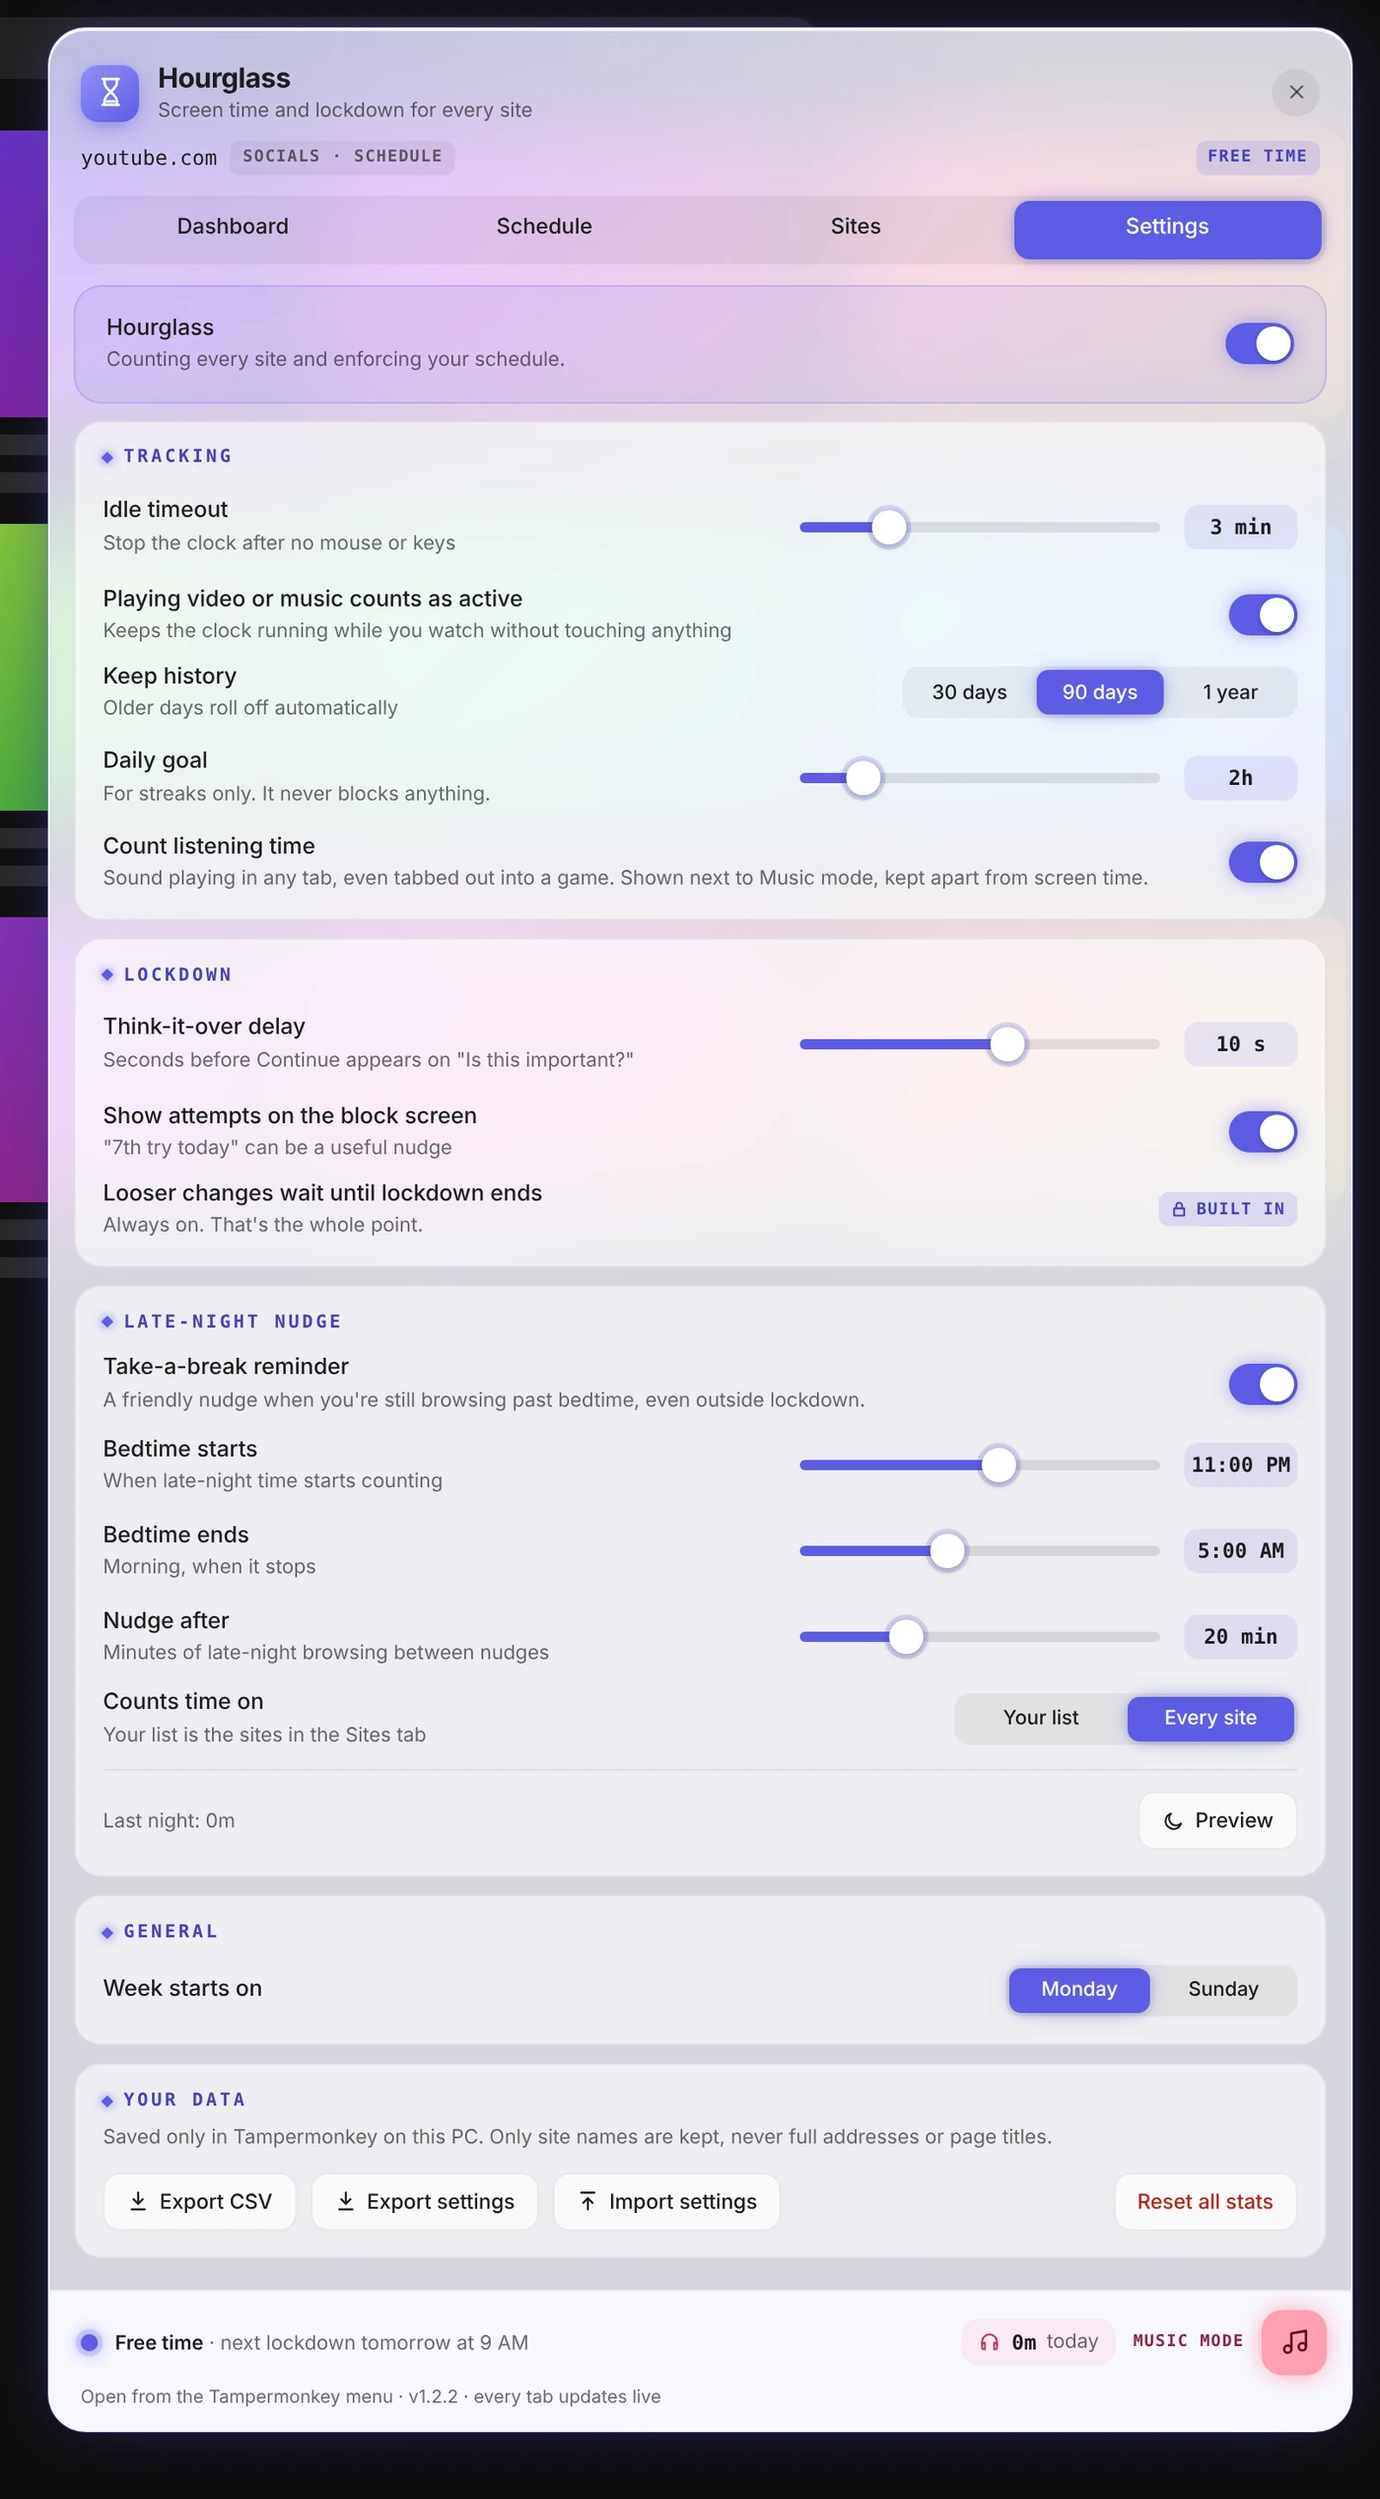
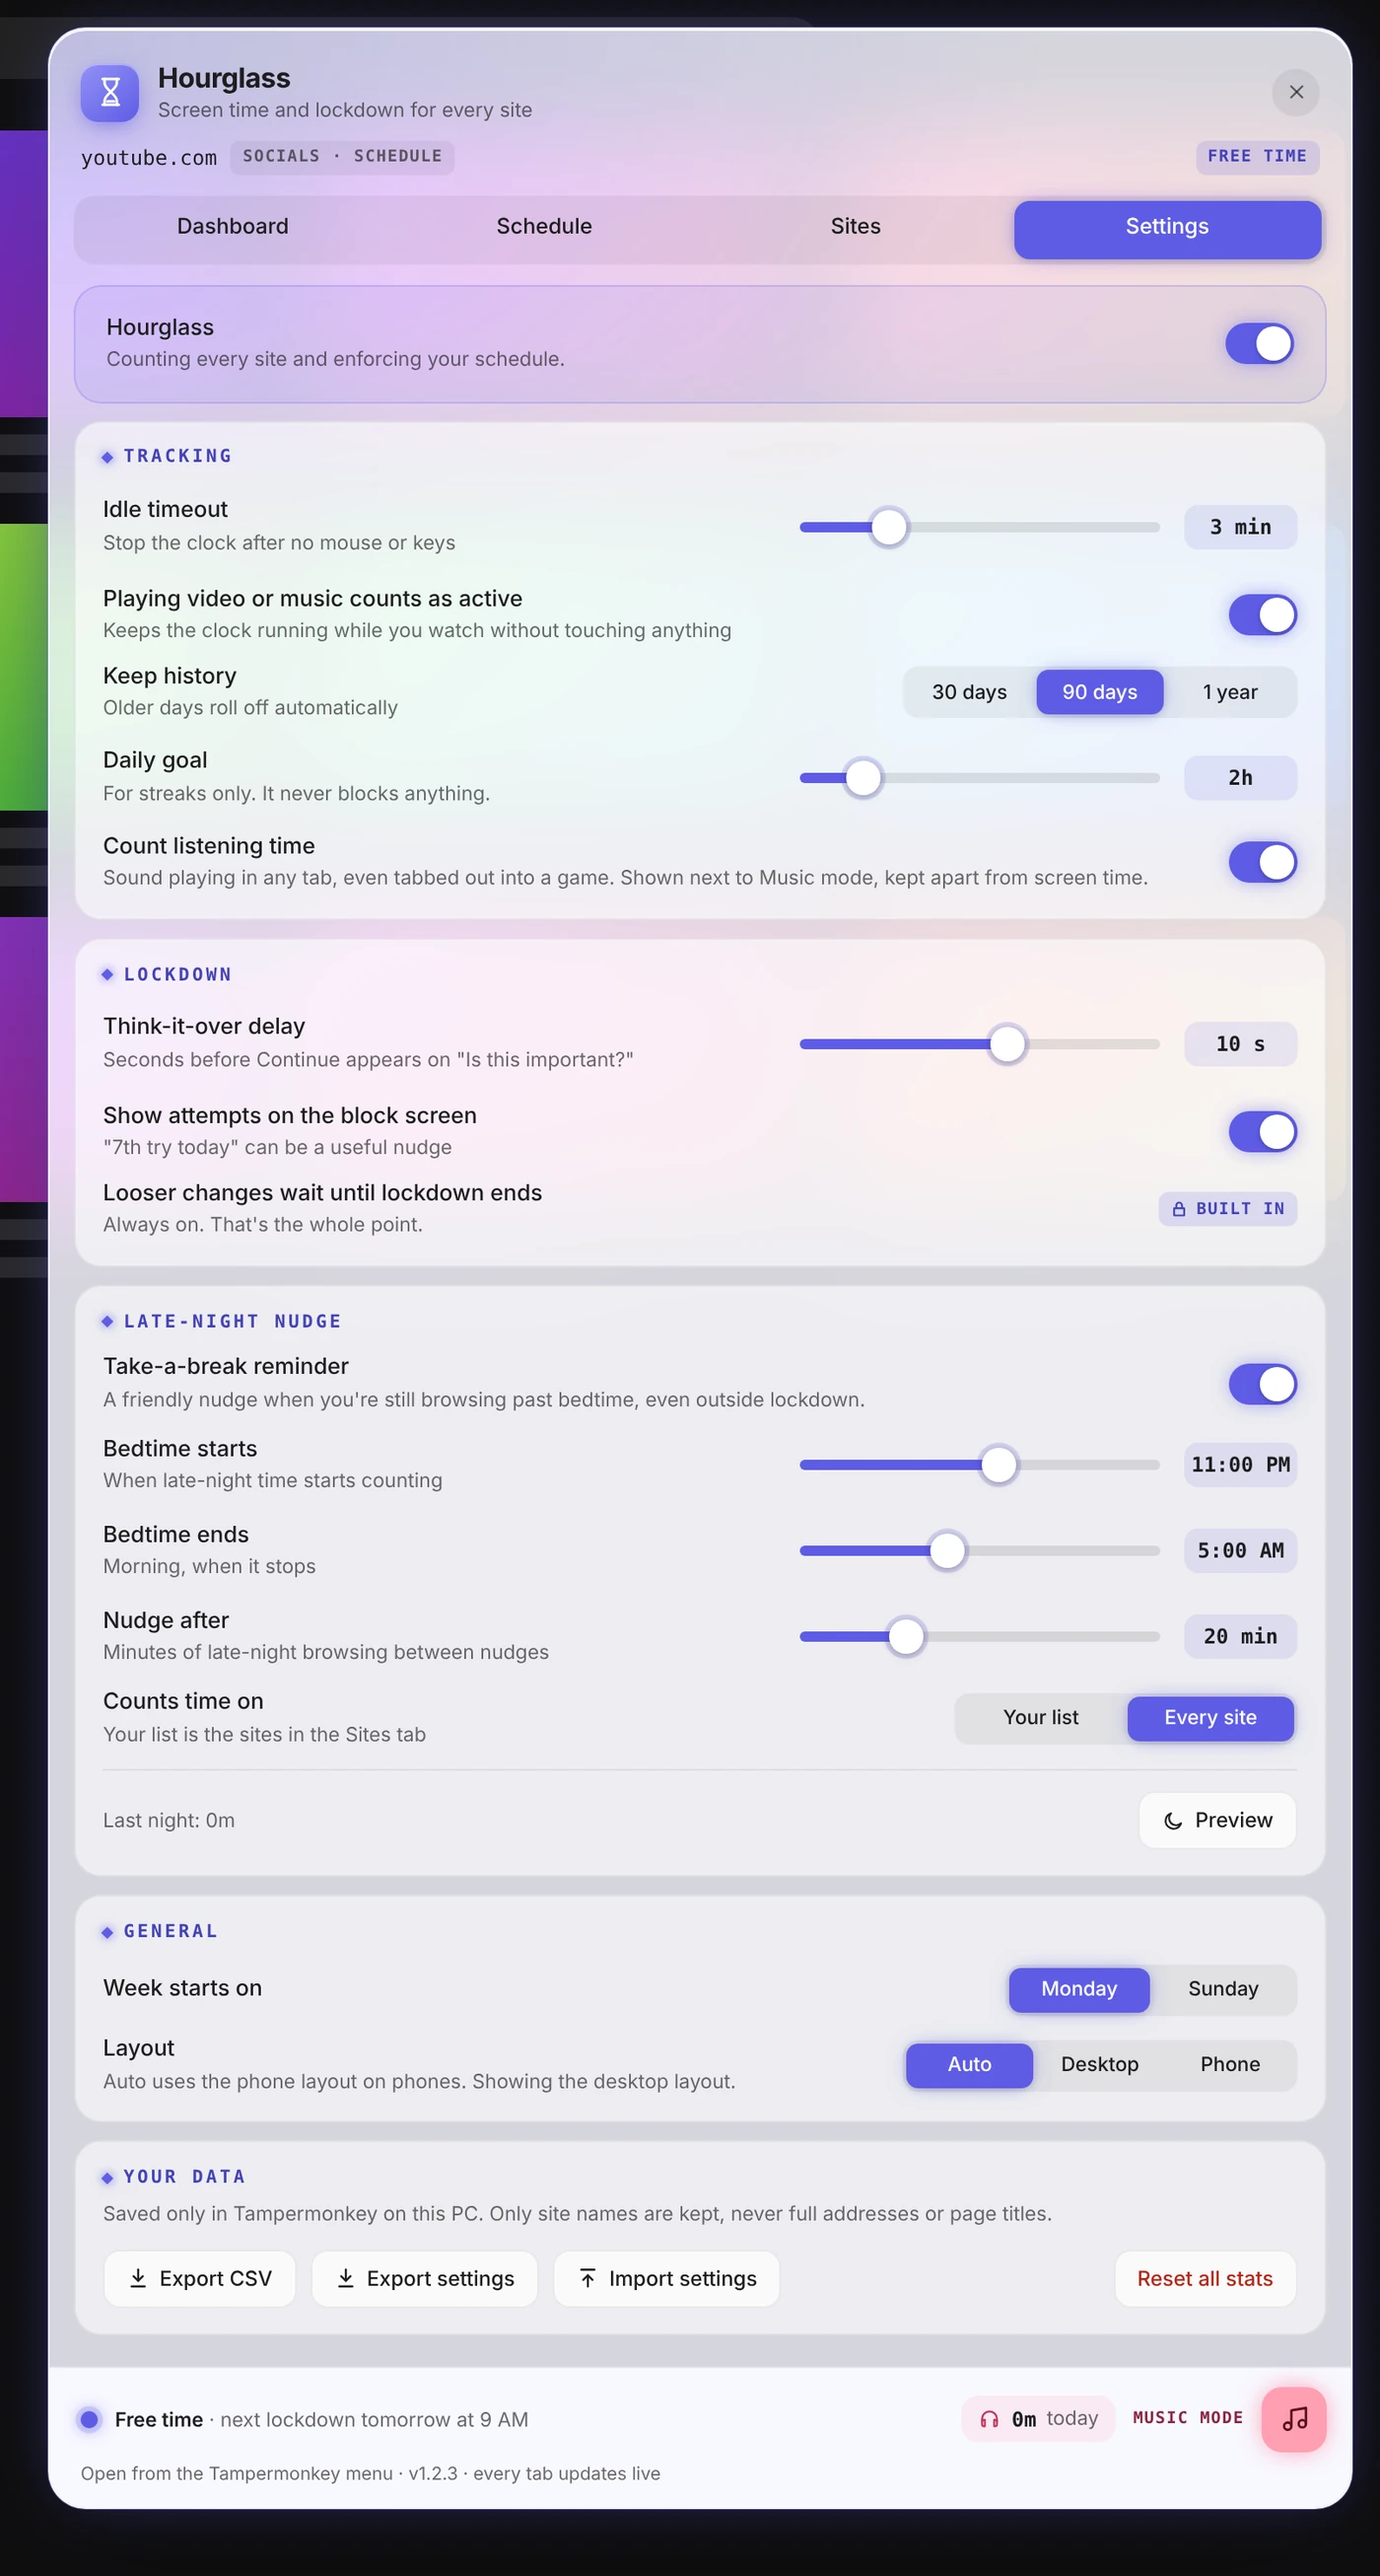
Hourglass 1.2.3: keep the desktop panel on touchscreen laptops
Edge on some touchscreen laptops reports the touchpad as a coarse
pointer, so the touch-only check picked the phone sheet on desktop.
The touch fallback (for phones in Desktop site mode) now also needs a
phone-sized screen. Settings > General gets a Layout switch
(Auto / Desktop / Phone) to override detection if it ever guesses wrong.

Panels recaptured and pages rebuilt.

Claude-Session: https://claude.ai/code/session_01P7t51rfR5tvBWCcnad5pzv

diff --git a/desktop/hourglass/hourglass.user.js b/desktop/hourglass/hourglass.user.js
@@ -1,7 +1,7 @@
 // ==UserScript==
 // @name         Hourglass
 // @namespace    jigglypug
-// @version      1.2.2
+// @version      1.2.3
 // @description  Screen time for every site, plus a lockdown schedule that blocks distractions. Frosted dashboard with charts, schedule sliders, passes, Music mode, listening time and a late-night nudge. Works on phones too.
 // @match        *://*/*
 // @grant        GM_getValue
@@ -25,7 +25,7 @@
 
     /* ───────────────────────── constants ───────────────────────── */
 
-    const VERSION = (typeof GM_info !== 'undefined' && GM_info.script && GM_info.script.version) || '1.2.2';
+    const VERSION = (typeof GM_info !== 'undefined' && GM_info.script && GM_info.script.version) || '1.2.3';
     const CAT = {
         social: { n: 'Socials',  c: '#5E5CE6' },
         shop:   { n: 'Shopping', c: '#32ADE6' },
@@ -132,13 +132,19 @@
         return 'custom';
     }
     const HOST = normHost(location.hostname);
-    // phones and tablets: the mobile flag when the browser reports it, a mobile user agent, or a touch-only screen
-    // (that last one still catches Edge/Chrome in "Desktop site" mode, which hides the mobile user agent)
-    const MOBILE = (() => {
+    // Layout: Settings › General can force Desktop or Phone; Auto decides below.
+    const LAYOUT = (() => { try { const v = GM_getValue('layout'); return v === 'desktop' || v === 'phone' ? v : 'auto'; } catch { return 'auto'; } })();
+    // Phones: the browser's own mobile flag, a mobile user agent, or an iPad (iPadOS reports itself as a Mac).
+    // "Desktop site" mode on a phone hides both, so a touch screen also counts, but only when the screen is phone-sized:
+    // touchscreen laptops often report their touchpad as a coarse pointer, and they should keep the desktop panel.
+    const MOBILE = LAYOUT === 'phone' ? true : LAYOUT === 'desktop' ? false : (() => {
         try {
+            const ua = navigator.userAgent;
             if (navigator.userAgentData?.mobile === true) return true;
-            if (/Android|iPhone|iPod|iPad|Mobile|Silk|Kindle|Opera Mini/i.test(navigator.userAgent)) return true;
-            return navigator.maxTouchPoints > 0 && matchMedia('(pointer: coarse)').matches && !matchMedia('(any-pointer: fine)').matches;
+            if (/Android|iPhone|iPod|iPad|Mobile|Silk|Kindle|Opera Mini/i.test(ua)) return true;
+            if (/Macintosh/.test(ua) && navigator.maxTouchPoints > 1) return true;
+            const phoneSized = Math.min(screen.width, screen.height) <= 600;
+            return phoneSized && navigator.maxTouchPoints > 0 && matchMedia('(pointer: coarse)').matches;
         } catch { return false; }
     })();
 
@@ -1680,7 +1686,15 @@ h1 span{color:var(--ink)}
                     h('div', { class: 'd', text: (inBedtime() ? 'Tonight so far: ' : 'Last night: ') + fmtDur(nightTotal(inBedtime() ? nightId() : lastNightId(), nudge.scope())) }),
                     h('button', { class: 'btn', onclick: () => nudge.show(nudge.tonight(), 1) }, icon(ICONS.moon, 13), 'Preview')));
             const general = h('div', { class: 'tile full' }, this.label('General'),
-                h('div', { class: 'row' }, h('div', { class: 't', text: 'Week starts on' }), this.seg([['mon', 'Monday'], ['sun', 'Sunday']], c.weekStart, v => upd('weekStart', v), true, { style: 'width:170px' })));
+                h('div', { class: 'row' }, h('div', { class: 't', text: 'Week starts on' }), this.seg([['mon', 'Monday'], ['sun', 'Sunday']], c.weekStart, v => upd('weekStart', v), true, { style: 'width:170px' })),
+                (() => {
+                    const want = get('layout', 'auto'), pending = want !== LAYOUT;
+                    return h('div', { class: 'row' },
+                        h('div', null, h('div', { class: 't', text: 'Layout' }),
+                            h('div', { class: 'd' }, pending ? ['Reload the page to switch. ', h('button', { class: 'link', text: 'Reload now', onclick: () => location.reload() })]
+                                : 'Auto uses the phone layout on phones. Showing the ' + (MOBILE ? 'phone' : 'desktop') + ' layout.')),
+                        this.seg([['auto', 'Auto'], ['desktop', 'Desktop'], ['phone', 'Phone']], want, v => { set('layout', v); this.render(); }, true, { style: 'width:230px' }));
+                })());
             const armed = Date.now() - this.resetArm < 4000;
             const data = h('div', { class: 'tile full', style: 'margin-bottom:14px' }, this.label('Your data'),
                 h('div', { class: 'd', style: 'margin:-4px 0 12px', text: 'Saved only in Tampermonkey on this PC. Only site names are kept, never full addresses or page titles.' }),

diff --git a/docs/desktop/hourglass/index.html b/docs/desktop/hourglass/index.html
@@ -11,7 +11,7 @@
 <header class="phero"><div>
 <div class="label">Desktop and phone userscript</div>
 <h1>Hourglass</h1><p class="tag">Screen time and lockdown for every site.</p><p class="intro">Hourglass tracks how long you spend on every site and blocks the distracting ones on a schedule. During lockdown the settings lock too, so you cannot talk yourself out of it in the moment.</p>
-<div class="chips"><span class="chip">Every site; phone and PC</span><span class="chip">v1.2.2</span></div>
+<div class="chips"><span class="chip">Every site; phone and PC</span><span class="chip">v1.2.3</span></div>
 <div class="acts"><a class="btn pri big" href="https://raw.githubusercontent.com/JigglyPug/glassware/main/desktop/hourglass/hourglass.user.js">Install Hourglass</a><a class="btn sec big" href="https://github.com/JigglyPug/glassware/blob/main/desktop/hourglass/hourglass.user.js">View source</a></div>
 </div><figure class="glass"><img src="../../img/hourglass/main.webp" alt="Hourglass panel"></figure></header>
 <section><div class="label">Getting started</div><div class="note glass">A fresh install starts in setup mode: Hourglass counts your screen time but blocks nothing and locks no settings. Check your sites and schedule, then tap <b>Start lockdown</b> on the welcome card. If you start during scheduled hours, you can begin right away or wait until the current block ends.</div></section>

diff --git a/docs/index.html b/docs/index.html
@@ -18,7 +18,7 @@
 <div class="acts"><a class="btn pri" href="https://raw.githubusercontent.com/JigglyPug/glassware/main/desktop/prism/prism.user.js">Install</a><a class="btn sec" href="desktop/prism/">Details</a></div></div></article><article class="card glass" style="--acc:#5b5bd6">
 <a class="shot" href="desktop/hourglass/"><img src="img/hourglass/card.webp" alt="Hourglass settings panel" loading="lazy"></a>
 <div class="body"><h3><a href="desktop/hourglass/">Hourglass</a></h3><p>Screen time and lockdown for every site.</p>
-<div class="meta"><span class="chip">Every site; phone and PC</span><span class="chip">v1.2.2</span></div>
+<div class="meta"><span class="chip">Every site; phone and PC</span><span class="chip">v1.2.3</span></div>
 <div class="acts"><a class="btn pri" href="https://raw.githubusercontent.com/JigglyPug/glassware/main/desktop/hourglass/hourglass.user.js">Install</a><a class="btn sec" href="desktop/hourglass/">Details</a></div></div></article><article class="card glass" style="--acc:#3b6fd6">
 <a class="shot" href="desktop/looking-glass/"><img src="img/looking-glass/card.webp" alt="Looking-Glass settings panel" loading="lazy"></a>
 <div class="body"><h3><a href="desktop/looking-glass/">Looking-Glass</a></h3><p>Open any video on its own.</p>

diff --git a/README.md b/README.md
@@ -11,7 +11,7 @@ Built for [Tampermonkey](https://www.tampermonkey.net/). Every script updates it
 ## Desktop
 
 <table>
-<tr><td align="center" valign="top" width="50%"><a href="desktop/prism"><img src="desktop/prism/images/card.webp" width="380"></a><br><h3><a href="desktop/prism">Prism</a></h3>Every app title bar, in its site's own color.<br><sub>Every site</sub><br><br><a href="https://raw.githubusercontent.com/JigglyPug/glassware/main/desktop/prism/prism.user.js"><img src="https://img.shields.io/badge/Install-v2.0.11-3b6fd6?style=for-the-badge"></a></td><td align="center" valign="top" width="50%"><a href="desktop/hourglass"><img src="desktop/hourglass/images/card.webp" width="380"></a><br><h3><a href="desktop/hourglass">Hourglass</a></h3>Screen time and lockdown for every site.<br><sub>Every site; phone and PC</sub><br><br><a href="https://raw.githubusercontent.com/JigglyPug/glassware/main/desktop/hourglass/hourglass.user.js"><img src="https://img.shields.io/badge/Install-v1.2.2-5b5bd6?style=for-the-badge"></a></td></tr>
+<tr><td align="center" valign="top" width="50%"><a href="desktop/prism"><img src="desktop/prism/images/card.webp" width="380"></a><br><h3><a href="desktop/prism">Prism</a></h3>Every app title bar, in its site's own color.<br><sub>Every site</sub><br><br><a href="https://raw.githubusercontent.com/JigglyPug/glassware/main/desktop/prism/prism.user.js"><img src="https://img.shields.io/badge/Install-v2.0.11-3b6fd6?style=for-the-badge"></a></td><td align="center" valign="top" width="50%"><a href="desktop/hourglass"><img src="desktop/hourglass/images/card.webp" width="380"></a><br><h3><a href="desktop/hourglass">Hourglass</a></h3>Screen time and lockdown for every site.<br><sub>Every site; phone and PC</sub><br><br><a href="https://raw.githubusercontent.com/JigglyPug/glassware/main/desktop/hourglass/hourglass.user.js"><img src="https://img.shields.io/badge/Install-v1.2.3-5b5bd6?style=for-the-badge"></a></td></tr>
 <tr><td align="center" valign="top" width="50%"><a href="desktop/looking-glass"><img src="desktop/looking-glass/images/card.webp" width="380"></a><br><h3><a href="desktop/looking-glass">Looking-Glass</a></h3>Open any video on its own.<br><sub>Every site; phone and PC</sub><br><br><a href="https://raw.githubusercontent.com/JigglyPug/glassware/main/desktop/looking-glass/looking-glass.user.js"><img src="https://img.shields.io/badge/Install-v1.0.5-3b6fd6?style=for-the-badge"></a></td><td align="center" valign="top" width="50%"><a href="desktop/molten-tools"><img src="desktop/molten-tools/images/card.webp" width="380"></a><br><h3><a href="desktop/molten-tools">Molten Tools</a></h3>Molten glass and quality-of-life fixes for YouTube.<br><sub>YouTube, YouTube Music</sub><br><br><a href="https://raw.githubusercontent.com/JigglyPug/glassware/main/desktop/molten-tools/molten-tools.user.js"><img src="https://img.shields.io/badge/Install-v3.5.6-ff8a3d?style=for-the-badge"></a></td></tr>
 <tr><td align="center" valign="top" width="50%"><a href="desktop/molten-for-reddit"><img src="desktop/molten-for-reddit/images/card.webp" width="380"></a><br><h3><a href="desktop/molten-for-reddit">Molten for Reddit</a></h3>Molten glass for new Reddit.<br><sub>reddit.com (new Reddit)</sub><br><br><a href="https://raw.githubusercontent.com/JigglyPug/glassware/main/desktop/molten-for-reddit/molten-for-reddit.user.js"><img src="https://img.shields.io/badge/Install-v2.2.11-ff8a3d?style=for-the-badge"></a></td><td align="center" valign="top" width="50%"><a href="desktop/kaleidoscope"><img src="desktop/kaleidoscope/images/card.webp" width="380"></a><br><h3><a href="desktop/kaleidoscope">Kaleidoscope</a></h3>Your AniList list, turned into your next favorite.<br><sub>anilist.co, claude.ai</sub><br><br><a href="https://raw.githubusercontent.com/JigglyPug/glassware/main/desktop/kaleidoscope/kaleidoscope.user.js"><img src="https://img.shields.io/badge/Install-v2.8.2-3db4f2?style=for-the-badge"></a></td></tr>
 </table>

diff --git a/desktop/hourglass/README.md b/desktop/hourglass/README.md
@@ -2,7 +2,7 @@
 
 <img src="images/banner.svg" alt="Hourglass: Screen time and lockdown for every site." width="100%">
 
-[![Install](https://img.shields.io/badge/Install-v1.2.2-5b5bd6?style=for-the-badge)](https://raw.githubusercontent.com/JigglyPug/glassware/main/desktop/hourglass/hourglass.user.js) [![Website](https://img.shields.io/badge/Website-product%20page-222?style=for-the-badge)](https://jigglypug.github.io/glassware/desktop/hourglass/)
+[![Install](https://img.shields.io/badge/Install-v1.2.3-5b5bd6?style=for-the-badge)](https://raw.githubusercontent.com/JigglyPug/glassware/main/desktop/hourglass/hourglass.user.js) [![Website](https://img.shields.io/badge/Website-product%20page-222?style=for-the-badge)](https://jigglypug.github.io/glassware/desktop/hourglass/)
 
 ![Runs on](https://img.shields.io/badge/runs%20on-Every%20site%3B%20phone%20and%20PC-555?style=flat-square) ![Platform](https://img.shields.io/badge/platform-desktop%20%2B%20mobile-555?style=flat-square)
 
